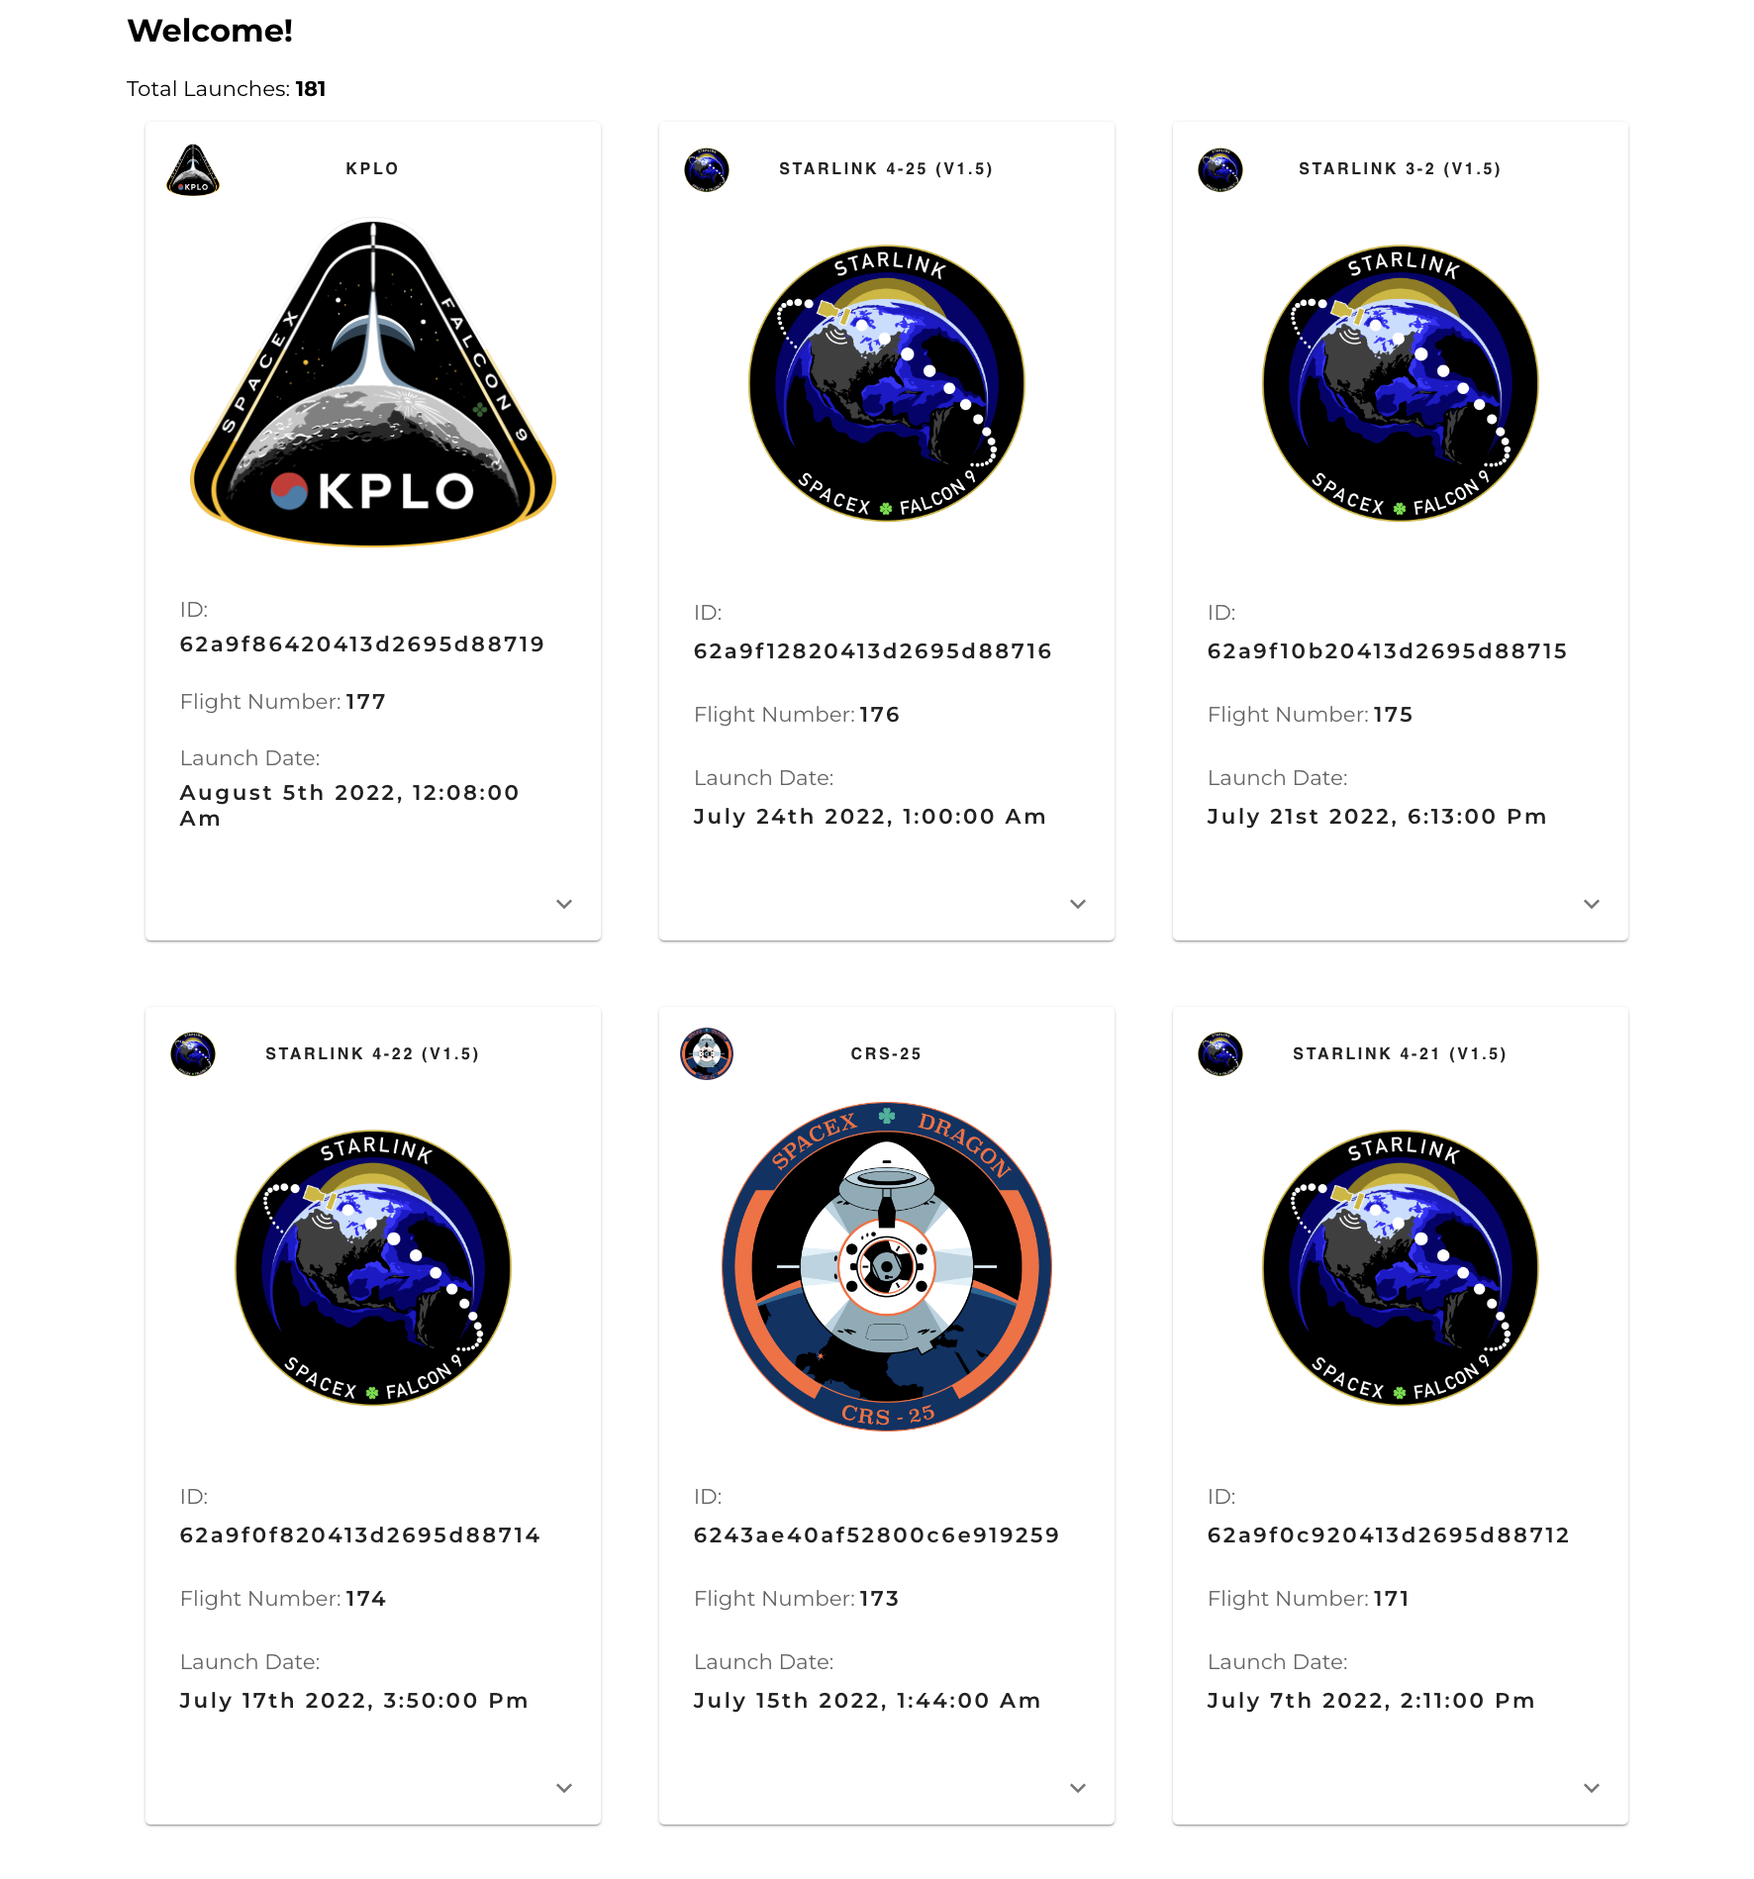
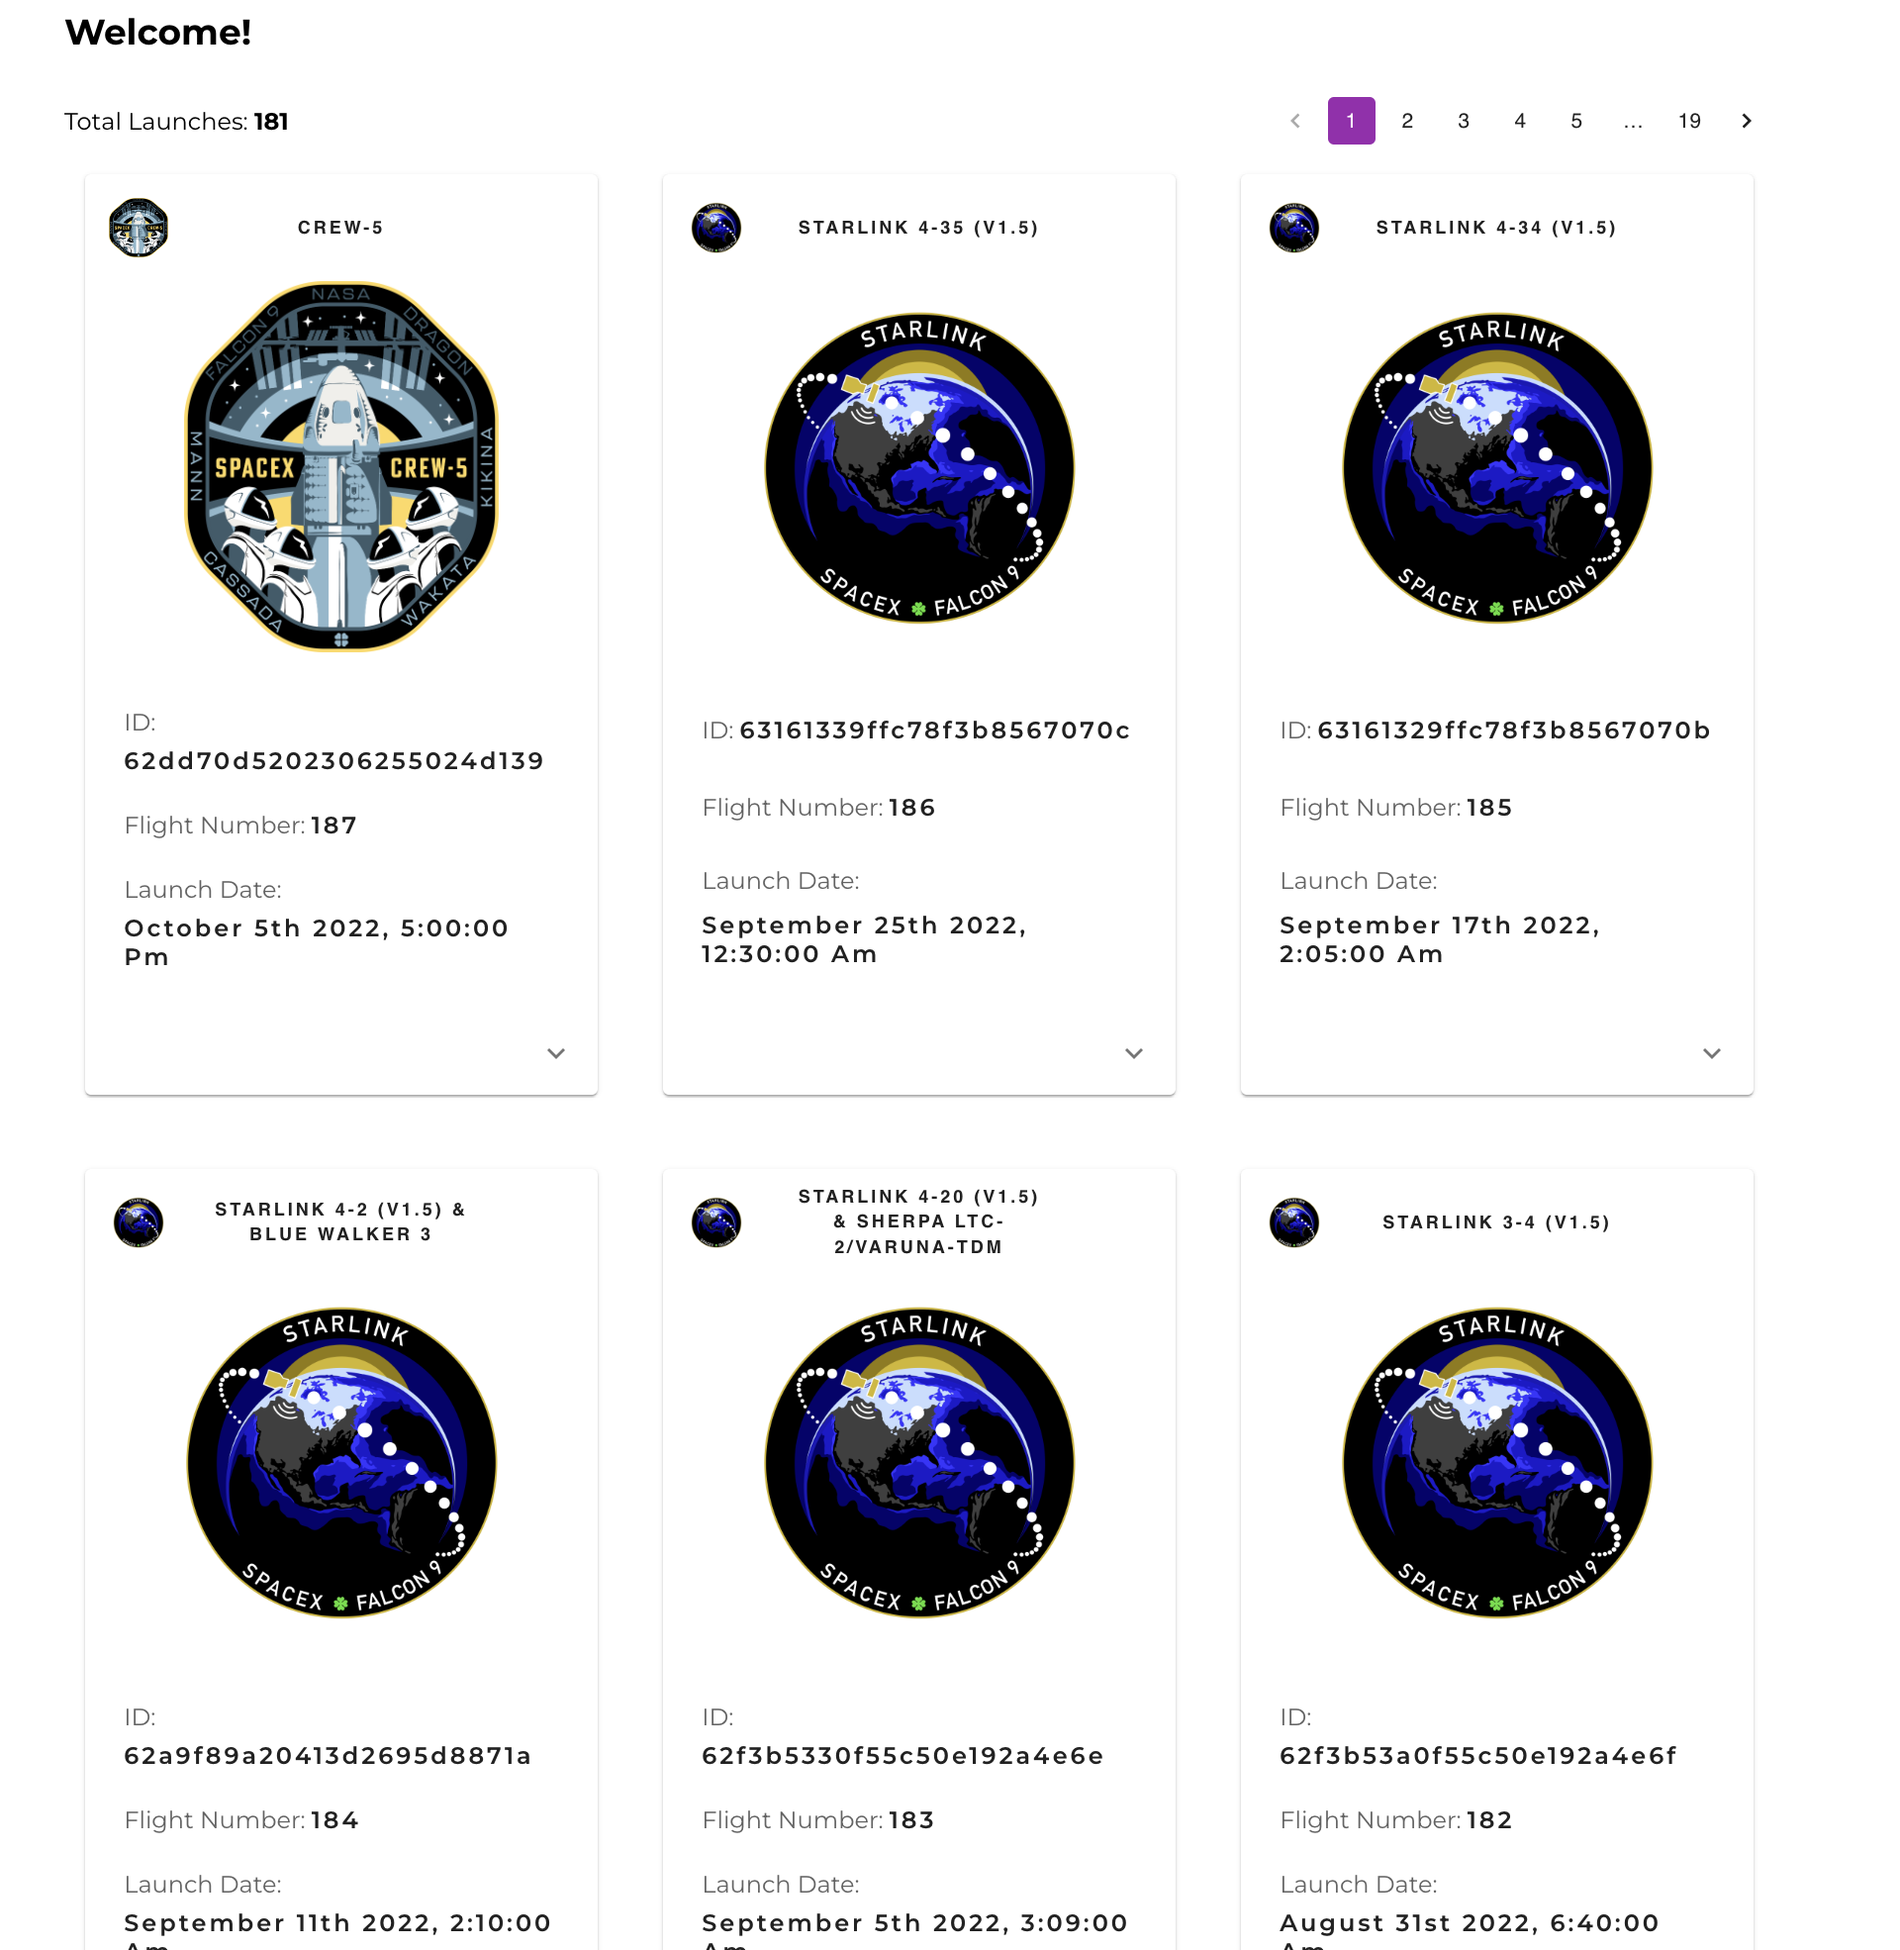
- update new_img - updated README.md

diff --git a/src/App.tsx b/src/App.tsx
@@ -136,7 +136,7 @@ function App() {
                     <p>Total Launches: <b>{data?.totalDocs}</b></p>
                     <Pagination 
                         count={data?.totalPages || 10} 
-                        color="secondary"
+                        color="primary"
                         onChange={(e, pageNumber) => setPage(pageNumber)}
                         shape="rounded"
                     />
@@ -146,7 +146,7 @@ function App() {
                         <Launches launches={data?.docs} loading={loading} />
                         <Pagination 
                             count={data?.totalPages || 10} 
-                            color="secondary"
+                            color="primary"
                             onChange={(e, pageNumber) => setPage(pageNumber)}
                             shape="rounded"
                             sx={{ marginTop: '20px' }}
@@ -155,9 +155,7 @@ function App() {
                 ) : (
                     <div>Loading...</div>
                 )}
-
             </Container>
-
         </div>
     );
 }

diff --git a/README.md b/README.md
@@ -4,7 +4,7 @@ I did the following
 - completed FE test
 - added typescript and scss for better quality code
 - created interfaces for API Response and Launch
-- created custom cpmonents
+- created custom components
 - added Montserrat font
 - added custom images
 
